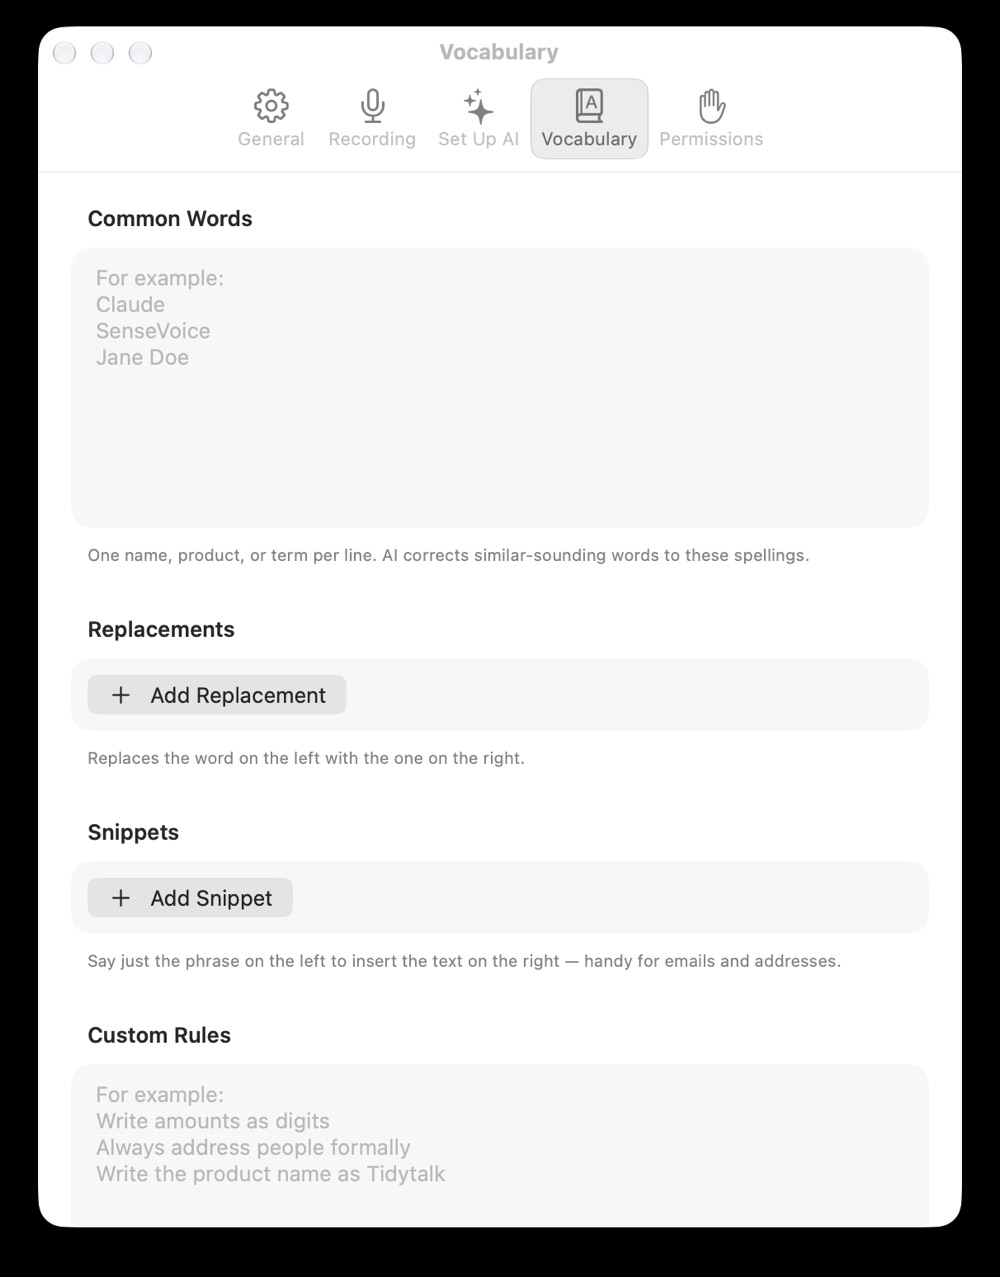
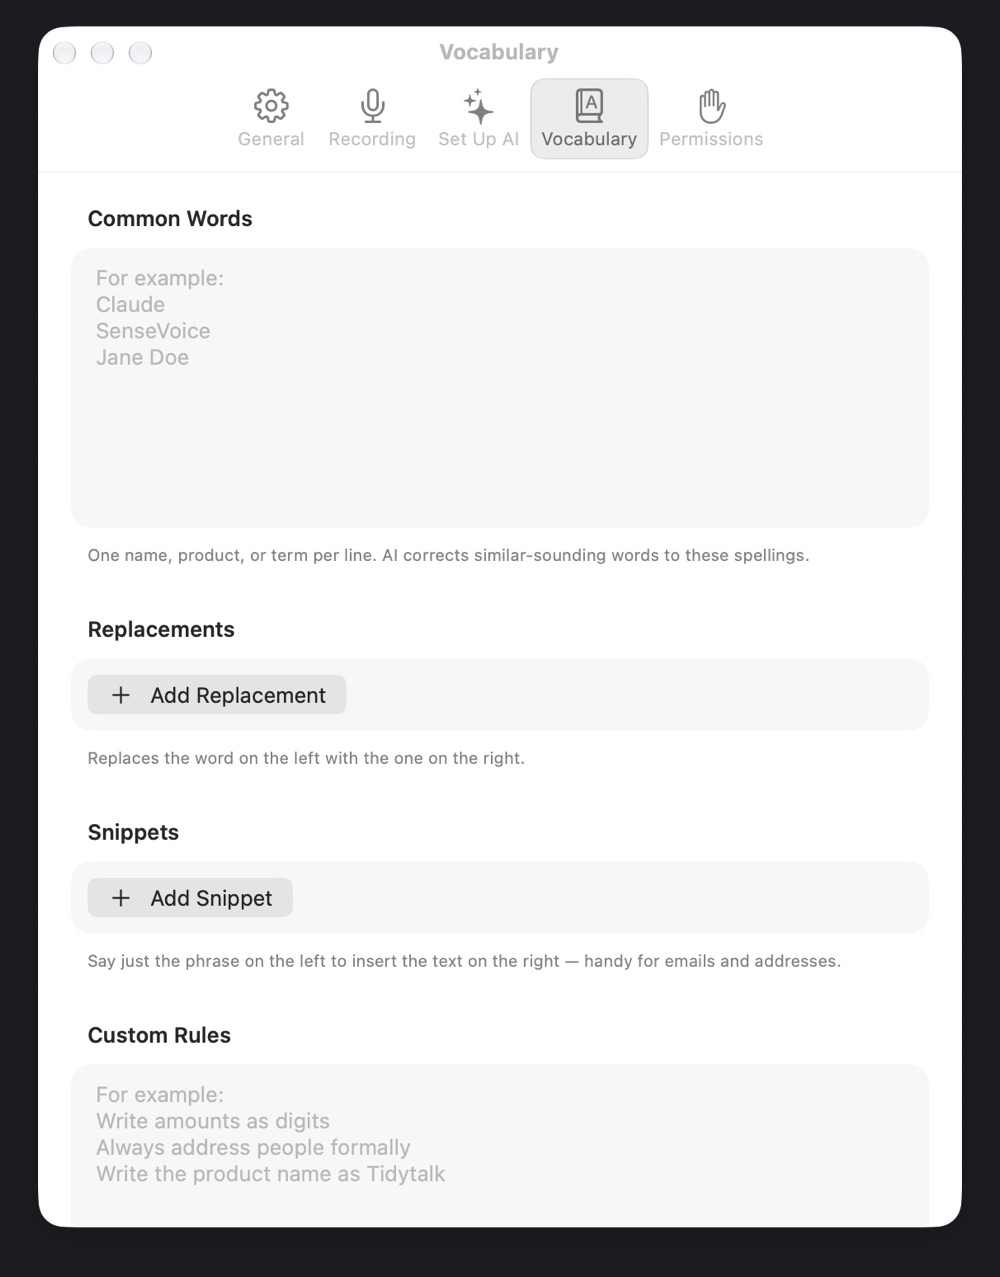
Animate the homepage demo and even out the screenshots
- The demo now plays like real use: the spoken sentence appears as you
  talk, fillers are struck out one by one, and the clean sentence types
  out at the cursor. Reduced-motion users see the static version.
- Show both screenshots at the same height, fading the taller one, and
  render them on the gray section background so no lighter box shows.

Changed region(s): [[0.0, 0.0, 1.0, 1.0]]

diff --git a/site/assets/demo.js b/site/assets/demo.js
@@ -1,0 +1,83 @@
+// 首页演示动画：边说边出字 → 逐个划掉口头禅 → 在光标处打出整理好的句子，然后循环。
+// 页面源码里本来就是完整的文字（给搜索引擎和不运行脚本的访客看），这里只负责播放。
+// 系统开启"减弱动态效果"时不播放，保持静态。
+(() => {
+  const demo = document.querySelector(".demo");
+  if (!demo || window.matchMedia("(prefers-reduced-motion: reduce)").matches) return;
+
+  const said = demo.querySelector(".demo-said");
+  const out = demo.querySelector(".demo-out");
+  const typed = demo.querySelector(".demo-typed");
+  const capsule = demo.querySelector(".capsule");
+  if (!said || !out || !typed || !capsule) return;
+
+  const label = said.querySelector(".demo-label");
+  const pieces = [...said.childNodes]
+    .filter((node) => node !== label)
+    .map((node) => ({ node, text: node.textContent }));
+  const fillers = [...said.querySelectorAll("del")];
+  const result = typed.textContent;
+  const wait = (ms) => new Promise((resolve) => setTimeout(resolve, ms));
+
+  // 固定两行的高度，逐字出现时页面不会跳动
+  const lockHeights = () => {
+    for (const row of [said, out]) {
+      row.style.minHeight = "";
+      row.style.minHeight = `${row.offsetHeight}px`;
+    }
+  };
+
+  // 页面在后台或演示不在屏幕上时暂停，回来后接着播放
+  let visible = true;
+  new IntersectionObserver(([entry]) => { visible = entry.isIntersecting; }).observe(demo);
+  const whenVisible = async () => {
+    while (!visible || document.hidden) await wait(300);
+  };
+
+  const typeInto = async (node, text, delay) => {
+    for (const char of Array.from(text)) {
+      await whenVisible();
+      node.textContent += char;
+      await wait(delay);
+    }
+  };
+
+  const play = async () => {
+    lockHeights();
+    window.addEventListener("resize", () => {
+      // 宽度变化时先恢复完整文字再量高度
+      pieces.forEach((piece) => { piece.node.textContent = piece.text; });
+      typed.textContent = result;
+      lockHeights();
+    });
+    demo.classList.add("is-animated");
+
+    for (;;) {
+      fillers.forEach((del) => del.classList.remove("struck"));
+      pieces.forEach((piece) => { piece.node.textContent = ""; });
+      typed.textContent = "";
+      capsule.classList.add("is-listening");
+      await wait(500);
+
+      // 说话：识别到的文字逐字出现
+      for (const piece of pieces) await typeInto(piece.node, piece.text, 55);
+      await wait(350);
+      capsule.classList.remove("is-listening");
+
+      // 整理：逐个划掉口头禅
+      await wait(300);
+      for (const del of fillers) {
+        await whenVisible();
+        del.classList.add("struck");
+        await wait(300);
+      }
+
+      // 粘贴：整理好的句子出现在光标处
+      await wait(350);
+      await typeInto(typed, result, 38);
+      await wait(3200);
+    }
+  };
+
+  play();
+})();

diff --git a/site-src/zh/index.html b/site-src/zh/index.html
@@ -92,7 +92,7 @@ description: Tidytalk 是免费开源的 macOS 段落式语音输入工具。按
           <div class="demo-titlebar" aria-hidden="true"><span></span><span></span><span></span><strong>备忘录</strong></div>
           <div class="demo-body">
             <p class="demo-row demo-said"><span class="demo-label">你说的</span><del>嗯那个</del>我想问一下<del>就是</del>这个 API 的<del>那个</del> rate limit <del>呃</del>是多少</p>
-            <p class="demo-row demo-out"><span class="demo-label">粘贴到光标处</span>我想问一下这个 API 的 rate limit 是多少？<span class="caret" aria-hidden="true"></span></p>
+            <p class="demo-row demo-out"><span class="demo-label">粘贴到光标处</span><span class="demo-typed">我想问一下这个 API 的 rate limit 是多少？</span><span class="caret" aria-hidden="true"></span></p>
           </div>
         </div>
         <div class="capsule" aria-hidden="true">
@@ -215,9 +215,9 @@ description: Tidytalk 是免费开源的 macOS 段落式语音输入工具。按
             <picture><source srcset="/assets/onboarding-dark.jpg" media="(prefers-color-scheme: dark)"><img src="/assets/onboarding-light.jpg" alt="Tidytalk 首次启动引导，正在配置 AI 接口" width="1000" height="883" loading="lazy" decoding="async"></picture>
             <figcaption>首次启动引导</figcaption>
           </figure>
-          <figure>
+          <figure class="shot-fade">
             <picture><source srcset="/assets/settings-vocabulary-dark.jpg" media="(prefers-color-scheme: dark)"><img src="/assets/settings-vocabulary-light.jpg" alt="Tidytalk 设置中的词库页面：常用词、固定替换、快捷短语和自定义规则" width="1000" height="1277" loading="lazy" decoding="async"></picture>
-            <figcaption>词库：常用词、固定替换、快捷短语、自定义规则</figcaption>
+            <figcaption>词库：常用词、固定替换和快捷短语</figcaption>
           </figure>
         </div>
       </div>
@@ -298,3 +298,4 @@ description: Tidytalk 是免费开源的 macOS 段落式语音输入工具。按
       </div>
     </section>
   </main>
+  <script src="/assets/demo.js" defer></script>

diff --git a/site-src/en/index.html b/site-src/en/index.html
@@ -91,7 +91,7 @@ description: Free, open-source voice input for Mac. Hold a shortcut and speak: T
           <div class="demo-titlebar" aria-hidden="true"><span></span><span></span><span></span><strong>Notes</strong></div>
           <div class="demo-body">
             <p class="demo-row demo-said"><span class="demo-label">You say</span><del>Um so</del> I wanted to ask, <del>like,</del> what's the <del>uh</del> rate limit for this API</p>
-            <p class="demo-row demo-out"><span class="demo-label">Pasted at your cursor</span>I wanted to ask what the rate limit for this API is.<span class="caret" aria-hidden="true"></span></p>
+            <p class="demo-row demo-out"><span class="demo-label">Pasted at your cursor</span><span class="demo-typed">I wanted to ask what the rate limit for this API is.</span><span class="caret" aria-hidden="true"></span></p>
           </div>
         </div>
         <div class="capsule" aria-hidden="true">
@@ -214,9 +214,9 @@ description: Free, open-source voice input for Mac. Hold a shortcut and speak: T
             <picture><source srcset="/assets/onboarding-en-dark.jpg" media="(prefers-color-scheme: dark)"><img src="/assets/onboarding-en-light.jpg" alt="The Tidytalk setup guide on the Set Up AI step" width="1000" height="883" loading="lazy" decoding="async"></picture>
             <figcaption>The setup guide</figcaption>
           </figure>
-          <figure>
+          <figure class="shot-fade">
             <picture><source srcset="/assets/settings-vocabulary-en-dark.jpg" media="(prefers-color-scheme: dark)"><img src="/assets/settings-vocabulary-en-light.jpg" alt="Tidytalk Vocabulary settings with Common Words, Replacements, Snippets, and Custom Rules" width="1000" height="1277" loading="lazy" decoding="async"></picture>
-            <figcaption>Vocabulary: common words, replacements, snippets, and custom rules</figcaption>
+            <figcaption>Vocabulary: common words, replacements, and snippets</figcaption>
           </figure>
         </div>
       </div>
@@ -297,3 +297,4 @@ description: Free, open-source voice input for Mac. Hold a shortcut and speak: T
       </div>
     </section>
   </main>
+  <script src="/assets/demo.js" defer></script>

diff --git a/scripts/optimize-site-images.swift b/scripts/optimize-site-images.swift
@@ -4,9 +4,10 @@ import UniformTypeIdentifiers
 
 // 为网站压缩图片。
 //
-//   swift optimize-site-images.swift screenshot <窗口截图.png> <输出前缀> <宽度>
-//     把带透明阴影的窗口截图缩放后，分别铺在浅色和深色页面背景上，生成 <前缀>-light.jpg 和 <前缀>-dark.jpg
-//     （背景色与 site/assets/style.css 里的 --bg 一致）。
+//   swift optimize-site-images.swift screenshot <窗口截图.png> <输出前缀> <宽度> [浅色背景 深色背景]
+//     把带透明阴影的窗口截图缩放后，分别铺在浅色和深色页面背景上，生成 <前缀>-light.jpg 和 <前缀>-dark.jpg。
+//     背景色默认是 site/assets/style.css 里的 --bg；放在灰色区块里的截图传 --surface-2 的颜色，
+//     例如 f2f2f5 1d1d20，否则截图四周会露出一块颜色不同的方框。
 //   swift optimize-site-images.swift jpeg <图片.png> <输出.jpg>
 //     不透明的图片（例如分享封面图）直接转成 JPEG。
 //   swift optimize-site-images.swift ico <图标.png> <输出.ico>
@@ -44,8 +45,13 @@ case "screenshot":
     let image = load(args[2])
     let width = Int(args[4])!
     let height = Int((Double(image.height) * Double(width) / Double(image.width)).rounded())
-    let backgrounds = [("light", CGColor(srgbRed: 0xfb / 255, green: 0xfb / 255, blue: 0xfd / 255, alpha: 1)),
-                       ("dark", CGColor(srgbRed: 0, green: 0, blue: 0, alpha: 1))]
+    func color(_ hex: String) -> CGColor {
+        let value = Int(hex, radix: 16)!
+        return CGColor(srgbRed: CGFloat((value >> 16) & 0xff) / 255, green: CGFloat((value >> 8) & 0xff) / 255,
+                       blue: CGFloat(value & 0xff) / 255, alpha: 1)
+    }
+    let backgrounds = [("light", color(args.count > 6 ? args[5] : "fbfbfd")),
+                       ("dark", color(args.count > 6 ? args[6] : "000000"))]
     for (name, color) in backgrounds {
         write([draw(image, width: width, height: height, background: color)],
               to: "\(args[3])-\(name).jpg", type: .jpeg, quality: 0.82)

diff --git a/site/zh/index.html b/site/zh/index.html
@@ -136,7 +136,7 @@
           <div class="demo-titlebar" aria-hidden="true"><span></span><span></span><span></span><strong>备忘录</strong></div>
           <div class="demo-body">
             <p class="demo-row demo-said"><span class="demo-label">你说的</span><del>嗯那个</del>我想问一下<del>就是</del>这个 API 的<del>那个</del> rate limit <del>呃</del>是多少</p>
-            <p class="demo-row demo-out"><span class="demo-label">粘贴到光标处</span>我想问一下这个 API 的 rate limit 是多少？<span class="caret" aria-hidden="true"></span></p>
+            <p class="demo-row demo-out"><span class="demo-label">粘贴到光标处</span><span class="demo-typed">我想问一下这个 API 的 rate limit 是多少？</span><span class="caret" aria-hidden="true"></span></p>
           </div>
         </div>
         <div class="capsule" aria-hidden="true">
@@ -259,9 +259,9 @@
             <picture><source srcset="/assets/onboarding-dark.jpg" media="(prefers-color-scheme: dark)"><img src="/assets/onboarding-light.jpg" alt="Tidytalk 首次启动引导，正在配置 AI 接口" width="1000" height="883" loading="lazy" decoding="async"></picture>
             <figcaption>首次启动引导</figcaption>
           </figure>
-          <figure>
+          <figure class="shot-fade">
             <picture><source srcset="/assets/settings-vocabulary-dark.jpg" media="(prefers-color-scheme: dark)"><img src="/assets/settings-vocabulary-light.jpg" alt="Tidytalk 设置中的词库页面：常用词、固定替换、快捷短语和自定义规则" width="1000" height="1277" loading="lazy" decoding="async"></picture>
-            <figcaption>词库：常用词、固定替换、快捷短语、自定义规则</figcaption>
+            <figcaption>词库：常用词、固定替换和快捷短语</figcaption>
           </figure>
         </div>
       </div>
@@ -342,6 +342,7 @@
       </div>
     </section>
   </main>
+  <script src="/assets/demo.js" defer></script>
   <footer class="site-footer">
     <div class="container footer-grid">
       <div>

diff --git a/site/index.html b/site/index.html
@@ -135,7 +135,7 @@
           <div class="demo-titlebar" aria-hidden="true"><span></span><span></span><span></span><strong>Notes</strong></div>
           <div class="demo-body">
             <p class="demo-row demo-said"><span class="demo-label">You say</span><del>Um so</del> I wanted to ask, <del>like,</del> what's the <del>uh</del> rate limit for this API</p>
-            <p class="demo-row demo-out"><span class="demo-label">Pasted at your cursor</span>I wanted to ask what the rate limit for this API is.<span class="caret" aria-hidden="true"></span></p>
+            <p class="demo-row demo-out"><span class="demo-label">Pasted at your cursor</span><span class="demo-typed">I wanted to ask what the rate limit for this API is.</span><span class="caret" aria-hidden="true"></span></p>
           </div>
         </div>
         <div class="capsule" aria-hidden="true">
@@ -258,9 +258,9 @@
             <picture><source srcset="/assets/onboarding-en-dark.jpg" media="(prefers-color-scheme: dark)"><img src="/assets/onboarding-en-light.jpg" alt="The Tidytalk setup guide on the Set Up AI step" width="1000" height="883" loading="lazy" decoding="async"></picture>
             <figcaption>The setup guide</figcaption>
           </figure>
-          <figure>
+          <figure class="shot-fade">
             <picture><source srcset="/assets/settings-vocabulary-en-dark.jpg" media="(prefers-color-scheme: dark)"><img src="/assets/settings-vocabulary-en-light.jpg" alt="Tidytalk Vocabulary settings with Common Words, Replacements, Snippets, and Custom Rules" width="1000" height="1277" loading="lazy" decoding="async"></picture>
-            <figcaption>Vocabulary: common words, replacements, snippets, and custom rules</figcaption>
+            <figcaption>Vocabulary: common words, replacements, and snippets</figcaption>
           </figure>
         </div>
       </div>
@@ -341,6 +341,7 @@
       </div>
     </section>
   </main>
+  <script src="/assets/demo.js" defer></script>
   <footer class="site-footer">
     <div class="container footer-grid">
       <div>

diff --git a/site/assets/style.css b/site/assets/style.css
@@ -635,6 +635,25 @@ h3 {
   margin: 0;
 }
 
+/* 两张截图用同样的比例显示；更长的那张从顶部截取，底部渐隐 */
+.shots picture {
+  display: block;
+  aspect-ratio: 1000 / 883;
+  overflow: hidden;
+}
+
+.shots picture img {
+  width: 100%;
+  height: 100%;
+  object-fit: cover;
+  object-position: top;
+}
+
+.shots .shot-fade picture {
+  -webkit-mask-image: linear-gradient(to bottom, #000 78%, transparent 100%);
+  mask-image: linear-gradient(to bottom, #000 78%, transparent 100%);
+}
+
 .shots figcaption {
   text-align: center;
   color: var(--muted);
@@ -1124,4 +1143,22 @@ a.card .more {
 
 .prose td {
   min-width: 140px;
+}
+
+/* 首页演示动画（由 demo.js 播放；不运行脚本时显示静态效果） */
+.demo.is-animated .demo-said del {
+  color: inherit;
+  text-decoration-color: transparent;
+  transition: color 0.25s ease, text-decoration-color 0.25s ease;
+}
+
+.demo.is-animated .demo-said del.struck {
+  color: var(--strike);
+  text-decoration-color: currentColor;
+}
+
+.demo.is-animated .capsule:not(.is-listening) .bars i {
+  animation: none;
+  transform: scaleY(0.3);
+  transition: transform 0.3s ease;
 }

diff --git a/docs/development.md b/docs/development.md
@@ -98,7 +98,7 @@ NOTARY_PROFILE=tidytalk-notary VERSION=0.2.0 scripts/make-dmg.sh
 
 - 访问统计用 Cloudflare Web Analytics（不使用 Cookie），统计代码在每个页面的 `</body>` 前，数据在 Cloudflare 账户的 Web Analytics 里查看。
 - 每次发布后，流程会用 IndexNow 通知必应等搜索引擎重新抓取 `sitemap.xml` 里的网址，密钥文件是 `site/<密钥>.txt`。
-- 截图和分享图要先压缩：`swift scripts/optimize-site-images.swift screenshot <截图.png> site/assets/<名字> 1000` 会生成浅色、深色两张 JPEG，页面里用 `<picture>` 按系统主题切换。
+- 截图和分享图要先压缩：`swift scripts/optimize-site-images.swift screenshot <截图.png> site/assets/<名字> 1000` 会生成浅色、深色两张 JPEG，页面里用 `<picture>` 按系统主题切换。放在灰色区块里的截图要在命令末尾加上背景色 `f2f2f5 1d1d20`，否则四周会露出颜色不同的方框；原图保存在 `docs/images/`。首页的演示动画在 `site/assets/demo.js`。
 
 本地预览：
 
